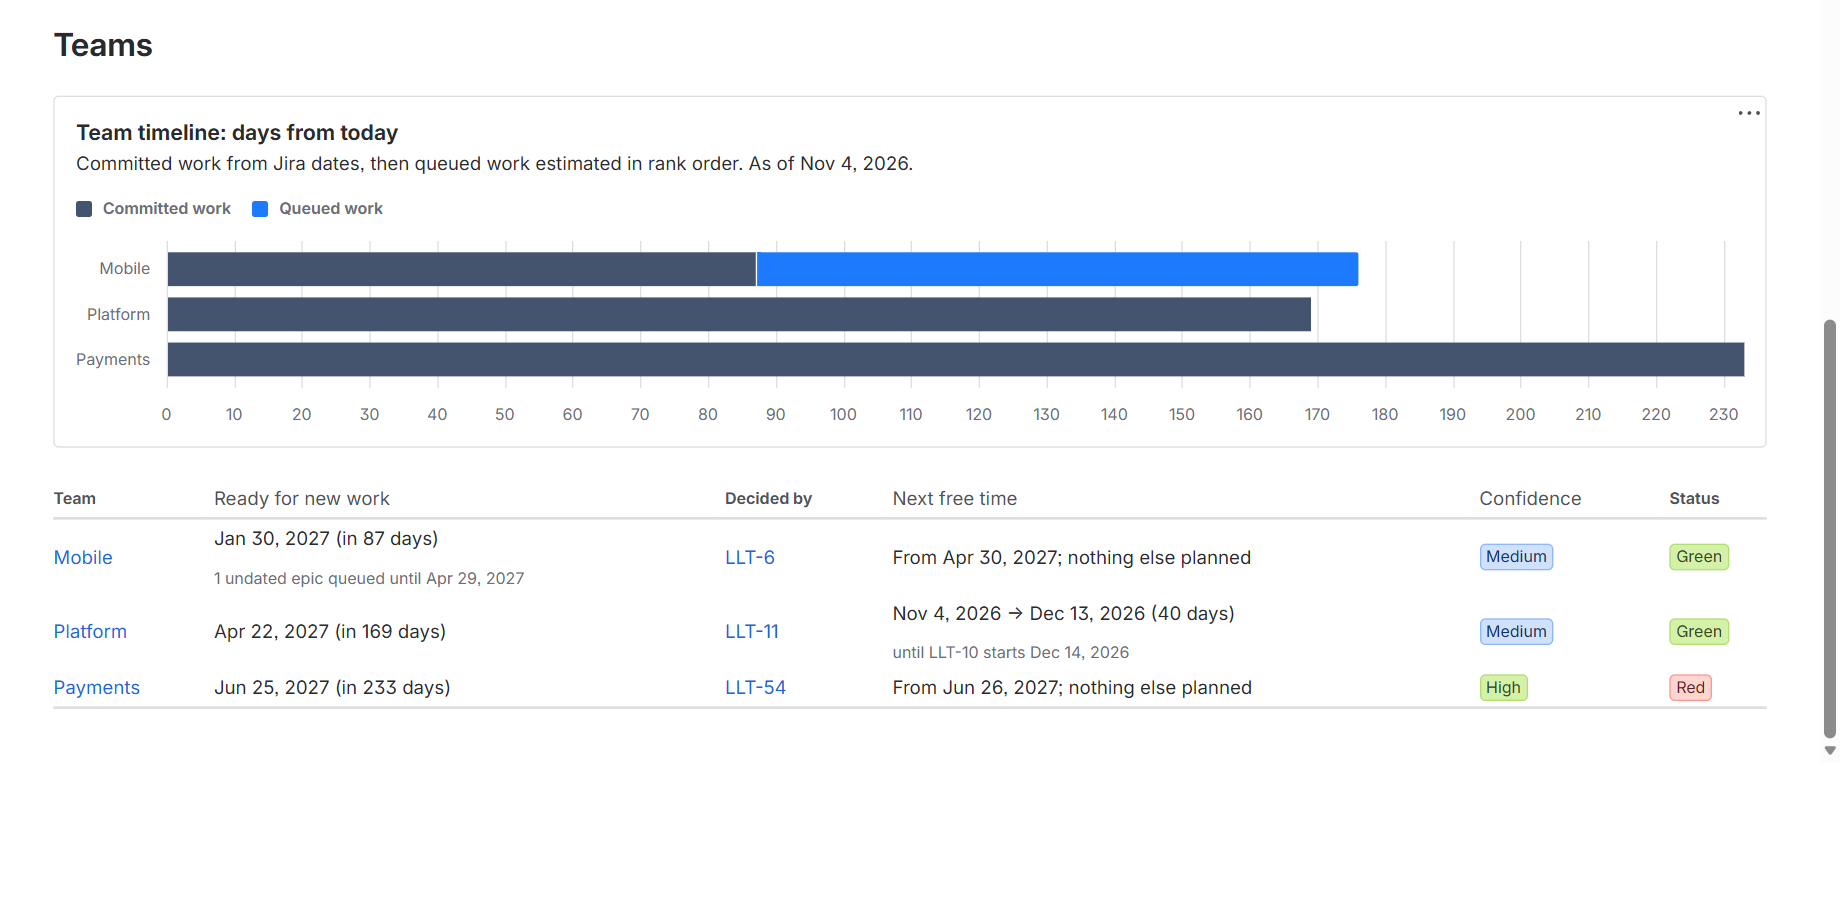
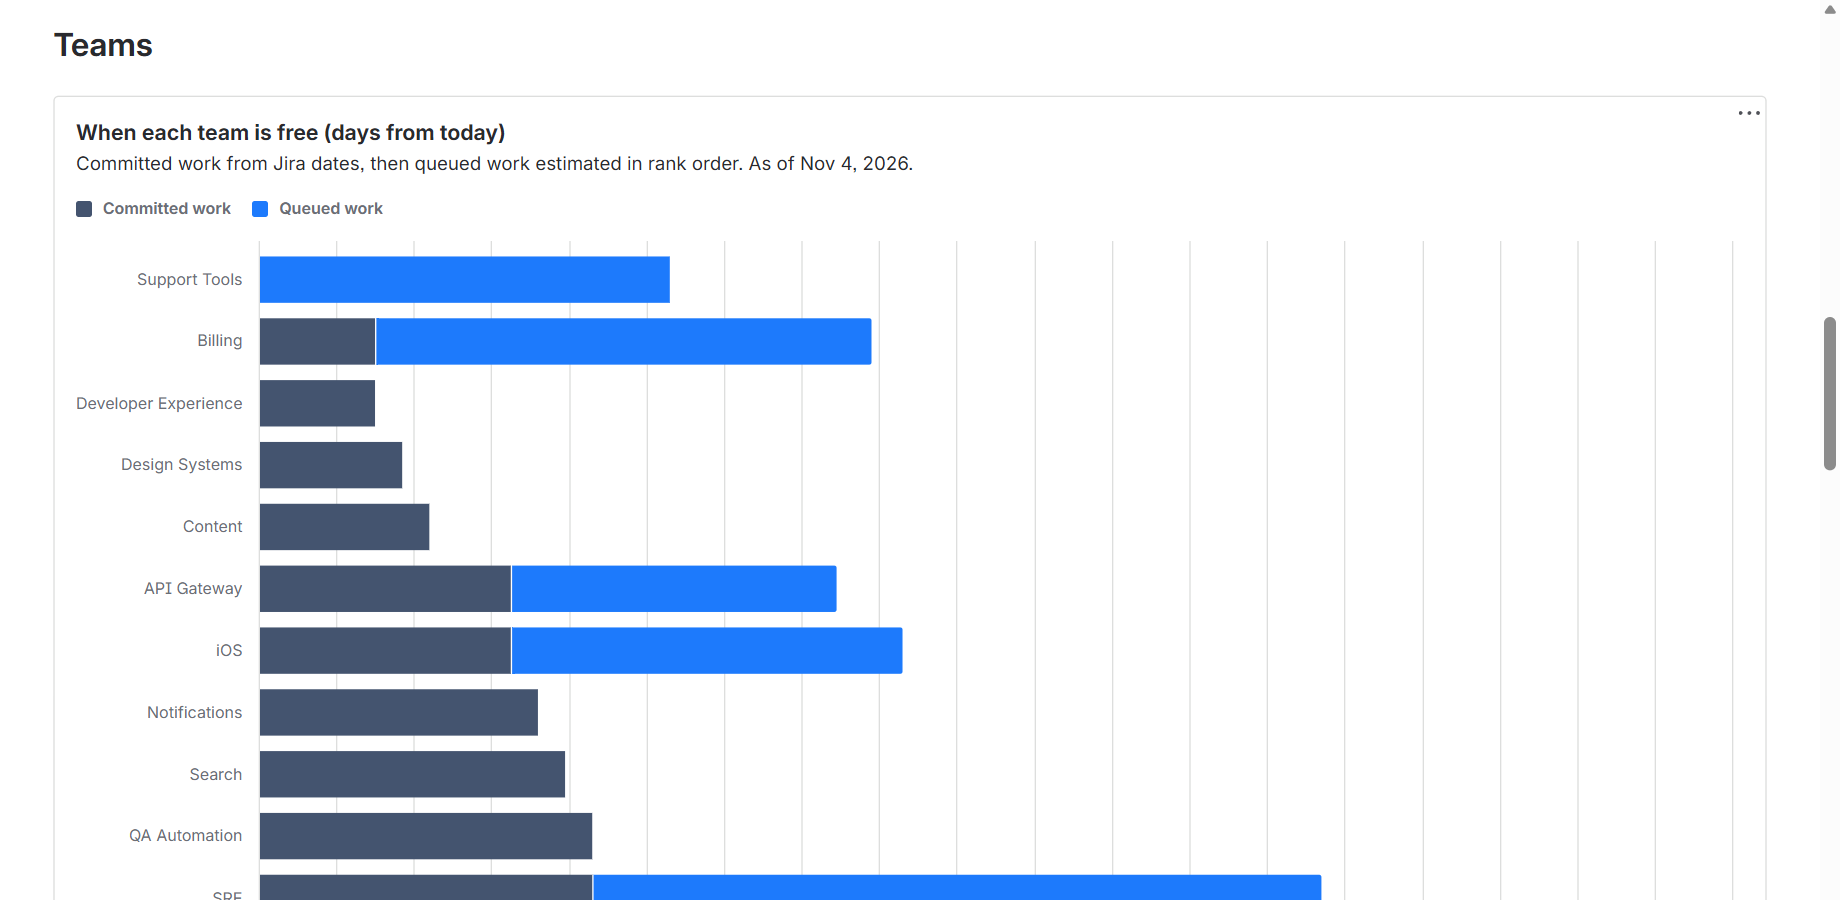
Loadline page: 'When each team is free' screenshot and caption

diff --git a/loadline/index.html b/loadline/index.html
@@ -72,8 +72,8 @@
       <div class="shots">
         <figure class="shot">
           <a class="frame shot-link" href="../assets/screens/team-timeline.png" aria-label="Open the full-size screenshot"><img src="../assets/screens/team-timeline.png" width="1840" height="900" loading="lazy"
-            alt="Loadline team timeline: one bar per team in days from today, committed work then queued work, with a table of each team's ready date, the epic that decides it, its next free time, confidence and status."></a>
-          <figcaption><strong>Team timeline.</strong> Every team on one line of dates: committed work from Jira dates, then queued work estimated in rank order. Below it, each team's ready date, how many days away it is, and the epic that decides it.</figcaption>
+            alt="Loadline chart, When each team is free: one bar per team in days from today, committed work from Jira dates then queued work estimated in rank order."></a>
+          <figcaption><strong>When each team is free.</strong> Every team on one line of dates: committed work from Jira dates, then queued work estimated in rank order. Beside the chart, a table gives each team's ready date, how many days away it is, and the epic that decides it. Works alongside Jira Plans, or without it.</figcaption>
         </figure>
         <figure class="shot">
           <a class="frame shot-link" href="../assets/screens/team-view.png" aria-label="Open the full-size screenshot"><img src="../assets/screens/team-view.png" width="1840" height="900" loading="lazy"
